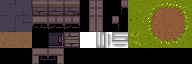
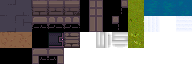
water surf and PRNG cache

diff --git a/src/main/kotlin/world/Level.kt b/src/main/kotlin/world/Level.kt
@@ -7,6 +7,7 @@ import kotlinx.serialization.Transient
 import render.GameScreen
 import render.sunLights
 import render.tileholders.OverlapTile
+import render.tileholders.WaterTile
 import render.tilesets.Glyph
 import render.tilesets.TileSet
 import things.LightSource
@@ -14,6 +15,7 @@ import things.Thing
 import ui.modals.ContextMenu
 import util.*
 import world.terrains.Terrain
+import kotlin.random.Random
 
 @Serializable
 sealed class Level {
@@ -52,7 +54,8 @@ sealed class Level {
         tileSet: TileSet,
         doTile: (x: Int, y: Int, vis: Float, glyph: Glyph, light: LightColor) -> Unit,
         doOverlap: (x: Int, y: Int, vis: Float, glyph: Glyph, edge: XY, light: LightColor) -> Unit,
-        doOcclude: (x: Int, y: Int, edge: XY) -> Unit
+        doOcclude: (x: Int, y: Int, edge: XY) -> Unit,
+        doSurf: (x: Int, y: Int, vis: Float, light: LightColor, edge: XY) -> Unit
     ) {
         for (x in pov.x - GameScreen.RENDER_WIDTH /2 until pov.x + GameScreen.RENDER_WIDTH /2) {
             for (y in pov.y - GameScreen.RENDER_HEIGHT /2 until pov.y + GameScreen.RENDER_HEIGHT /2) {
@@ -63,6 +66,7 @@ sealed class Level {
                     doTile(
                         x, y, vis, glyph, lightAt(x, y)
                     )
+                    // Ground overlaps
                     if (tileSet.tileHolders[glyph] is OverlapTile) {
                         CARDINALS.forEach { edge ->
                             if ((tileSet.tileHolders[glyph] as OverlapTile).overlapsIn(this, x, y, edge)) {
@@ -72,7 +76,18 @@ sealed class Level {
                             }
                         }
                     }
-                    if (vis == 1f && terrain.isWalkable()) {
+                    // Water surf
+                    if (tileSet.tileHolders[glyph] is WaterTile) {
+                        listOf(NORTH, WEST, EAST).forEach { edge ->
+                            if (tileSet.tileHolders[Terrain.get(getTerrain(x + edge.x, y + edge.y)).glyph()] !is WaterTile) {
+                                doSurf(
+                                    x, y, vis, lightAt(x, y), edge
+                                )
+                            }
+                        }
+                    }
+                    // Occlusion shadows
+                    if (vis == 1f && !terrain.isOpaque()) {
                         var okNE = true
                         var okSE = true
                         var okNW = true
@@ -177,6 +192,8 @@ sealed class Level {
     fun setTerrain(x: Int, y: Int, type: Terrain.Type) = chunkAt(x,y)?.setTerrain(x,y,type) ?: Unit
 
     fun setTerrainData(x: Int, y: Int, data: String) = chunkAt(x,y)?.setTerrainData(x,y,data)
+
+    fun getRandom(x: Int, y: Int): Int = chunkAt(x,y)?.getRandom(x,y) ?: 4 // chosen by fair dice roll
 
     fun getGlyph(x: Int, y: Int): Glyph = chunkAt(x,y)?.getGlyph(x,y) ?: Glyph.BLANK
 

diff --git a/src/main/kotlin/render/QuadBatch.kt b/src/main/kotlin/render/QuadBatch.kt
@@ -130,7 +130,7 @@ class QuadBatch(
     }
 
     fun addOccludeQuad(col: Int, row: Int, stride: Double, edge: XY,
-                        textureIndex: Int, aspectRatio: Double) {
+                        textureIndex: Int, visibility: Float, light: LightColor, aspectRatio: Double) {
         var ix0 = (col.toDouble() * stride - (stride * 0.5)) / aspectRatio
         var iy0 = row.toDouble() * stride - (stride * 0.5)
         var ix1 = ix0 + stride / aspectRatio
@@ -204,13 +204,18 @@ class QuadBatch(
         tx1 = (((textureIndex % tileSet.tilesPerRow).toFloat() + tx1) * tileSet.tileRowStride).toFloat() - (tileSet.tilesPerRow * tilePad)
         ty1 = (((textureIndex / tileSet.tilesPerRow).toFloat() + ty1) * tileSet.tileColumnStride).toFloat() - (tileSet.tilesPerRow * tilePad)
 
+        val lightR = min(visibility, light.r)
+        val lightG = min(visibility, light.g)
+        val lightB = min(visibility, light.b)
+        val grayOut = if (visibility < 1f) 1f else 0f
+
         floats.apply {
-            addVertex(x0, y0, tx0, ty0, 1f, 1f, 1f, 0f)
-            addVertex(x0, y1, tx0, ty1, 1f, 1f, 1f, 0f)
-            addVertex(x1, y0, tx1, ty0, 1f, 1f, 1f, 0f)
-            addVertex(x1, y0, tx1, ty0, 1f, 1f, 1f, 0f)
-            addVertex(x0, y1, tx0, ty1, 1f, 1f, 1f, 0f)
-            addVertex(x1, y1, tx1, ty1, 1f, 1f, 1f, 0f)
+            addVertex(x0, y0, tx0, ty0, lightR, lightG, lightB, grayOut)
+            addVertex(x0, y1, tx0, ty1, lightR, lightG, lightB, grayOut)
+            addVertex(x1, y0, tx1, ty0, lightR, lightG, lightB, grayOut)
+            addVertex(x1, y0, tx1, ty0, lightR, lightG, lightB, grayOut)
+            addVertex(x0, y1, tx0, ty1, lightR, lightG, lightB, grayOut)
+            addVertex(x1, y1, tx1, ty1, lightR, lightG, lightB, grayOut)
         }
     }
 

diff --git a/src/main/kotlin/world/Chunk.kt b/src/main/kotlin/world/Chunk.kt
@@ -11,6 +11,7 @@ import world.cartos.RoomyMaze
 import world.cartos.WorldCarto
 import world.terrains.Terrain
 import java.lang.Float.min
+import kotlin.random.Random
 
 
 @Serializable
@@ -51,6 +52,8 @@ class Chunk(
     private val walkableCache = Array(width) { Array<Boolean?>(height) { null } }
     @Transient
     private val opaqueCache = Array(width) { Array<Boolean?>(height) { null } }
+    @Transient
+    private val randomCache = Array(width) { Array<Int?>(height) { null } }
 
     @Transient private val noThing = ArrayList<Thing>()
 
@@ -157,6 +160,16 @@ class Chunk(
 
     fun setTerrainData(x: Int, y: Int, data: String) {
         terrainData[x - this.x][y - this.y] = data
+    }
+
+    fun getRandom(x: Int, y: Int): Int {
+        return if (boundsCheck(x, y)) {
+            randomCache[x - this.x][y - this.y] ?: run {
+                val newRandom = Random.nextInt(100000)
+                randomCache[x - this.x][y - this.y] = newRandom
+                newRandom
+            }
+        } else 4 // chosen by fair dice roll
     }
 
     fun getGlyph(x: Int, y: Int) = if (boundsCheck(x, y)) {

diff --git a/src/main/kotlin/render/tilesets/TerrainTileSet.kt b/src/main/kotlin/render/tilesets/TerrainTileSet.kt
@@ -1,9 +1,6 @@
 package render.tilesets
 
-import render.tileholders.OverlapTile
-import render.tileholders.SimpleTile
-import render.tileholders.VariantsTile
-import render.tileholders.WallTile
+import render.tileholders.*
 
 fun TerrainTileSet() =
     TileSet("tiles_terrain.png", 12, 4).apply {
@@ -12,6 +9,8 @@ fun TerrainTileSet() =
 
         setTile(Glyph.OCCLUSION_SHADOWS_V, SimpleTile(this, 6, 2))
         setTile(Glyph.OCCLUSION_SHADOWS_H, SimpleTile(this, 7, 2))
+        setTile(Glyph.SURF_V, SimpleTile(this, 9, 1))
+        setTile(Glyph.SURF_H, SimpleTile(this, 11, 1))
 
         setTile(Glyph.STONE_FLOOR, VariantsTile(this).apply {
             add(0.3f, 0, 0)
@@ -48,6 +47,12 @@ fun TerrainTileSet() =
             add(WallTile.Slot.RIGHTBOTTOM, 1f, 7, 1)
             add(WallTile.Slot.OUTSIDE_RIGHTBOTTOM, 1f, 2, 3)
             add(WallTile.Slot.FULL, 1f, 4, 2)
+        })
+
+        setTile(Glyph.WATER, WaterTile(this).apply {
+            add(0.3f, 9, 0)
+            add(0.4f, 11, 0)
+            add(0.3f, 10, 0)
         })
 
         setTile(Glyph.PORTAL_DOOR, SimpleTile(this, 3, 2))

diff --git a/src/main/kotlin/render/GameScreen.kt b/src/main/kotlin/render/GameScreen.kt
@@ -124,7 +124,17 @@ object GameScreen : KtxScreen {
         )
         overlapBatch.addOccludeQuad(
             tx - pov.x, ty - pov.y, tileStride, edge,
-            textureIndex, aspectRatio
+            textureIndex, 1f, fullLight, aspectRatio
+        )
+    }
+
+    private val renderSurf: (Int, Int, Float, LightColor, XY)->Unit = { tx, ty, vis, light, edge ->
+        val textureIndex = terrainBatch.getTextureIndex(
+            if (edge == NORTH || edge == SOUTH) Glyph.SURF_H else Glyph.SURF_V
+        )
+        overlapBatch.addOccludeQuad(
+            tx - pov.x, ty - pov.y, tileStride, edge,
+            textureIndex, vis, light, aspectRatio
         )
     }
 
@@ -337,7 +347,8 @@ object GameScreen : KtxScreen {
             App.level.forEachCellToRender(tileSet,
                 doTile = renderTile,
                 doOverlap = renderOverlap,
-                doOcclude = renderOcclude
+                doOcclude = renderOcclude,
+                doSurf = renderSurf
             )
             draw()
         }

diff --git a/src/main/kotlin/render/tileholders/WaterTile.kt b/src/main/kotlin/render/tileholders/WaterTile.kt
@@ -1,0 +1,28 @@
+package render.tileholders
+
+import render.tilesets.TileSet
+import util.Dice
+import world.Level
+import kotlin.random.Random
+
+class WaterTile(
+    set: TileSet
+): TileHolder(set)  {
+
+    private val variants = ArrayList<Triple<Float, Int, Int>>()
+
+    fun add(frequency: Float, tx: Int, ty: Int) {
+        variants.add(Triple(frequency, tx, ty))
+    }
+
+    override fun getTextureIndex(level: Level?, x: Int, y: Int): Int {
+        val seed = x * 10 + y + (System.currentTimeMillis() / (400 + Random(x*10+y).nextInt(200))).toInt()
+        val dice = Random(seed).nextFloat()
+        var chance = 0f
+        variants.forEach { v ->
+            chance += v.first
+            if (dice <= chance) return v.third * set.tilesPerRow + v.second
+        }
+        return 0
+    }
+}

diff --git a/src/main/kotlin/world/terrains/Terrain.kt b/src/main/kotlin/world/terrains/Terrain.kt
@@ -23,6 +23,7 @@ sealed class Terrain(
             Type.TERRAIN_STONEFLOOR -> StoneFloor
             Type.TERRAIN_DIRT -> Dirt
             Type.TERRAIN_GRASS -> Grass
+            Type.TERRAIN_WATER -> Water
             Type.TERRAIN_PORTAL_DOOR -> PortalDoor
         }
         fun getTiled(type: Int): Terrain.Type? = when (type) {
@@ -41,6 +42,7 @@ sealed class Terrain(
         TERRAIN_STONEFLOOR,
         TERRAIN_DIRT,
         TERRAIN_GRASS,
+        TERRAIN_WATER,
         TERRAIN_PORTAL_DOOR,
     }
 
@@ -109,4 +111,13 @@ object PortalDoor : Terrain(
             }
         })
     }
+}
+
+object Water : Terrain(
+    Glyph.WATER,
+    false,
+    true,
+    false
+) {
+
 }

diff --git a/src/main/kotlin/render/tileholders/TileHolder.kt b/src/main/kotlin/render/tileholders/TileHolder.kt
@@ -7,15 +7,14 @@ import render.tilesets.TileSet
 abstract class TileHolder(
     val set: TileSet
 ) {
-
     abstract fun getTextureIndex(
         level: Level? = null,
         x: Int = 0,
         y: Int = 0
     ): Int
 
-    protected fun pickIndexFromVariants(bucket: ArrayList<Triple<Float, Int, Int>>, seed: Int): Int {
-        val dice = Random(seed).nextFloat()
+    protected fun pickIndexFromVariants(random: Int, bucket: ArrayList<Triple<Float, Int, Int>>): Int {
+        val dice = (random % 1000).toFloat() / 1000f
         var chance = 0f
         bucket.forEach { v ->
             chance += v.first

diff --git a/src/main/kotlin/render/tileholders/VariantsTile.kt b/src/main/kotlin/render/tileholders/VariantsTile.kt
@@ -2,6 +2,7 @@ package render.tileholders
 
 import world.Level
 import render.tilesets.TileSet
+import kotlin.random.Random
 
 open class VariantsTile(
     set: TileSet
@@ -14,7 +15,10 @@ open class VariantsTile(
     }
 
     override fun getTextureIndex(level: Level?, x: Int, y: Int): Int {
-        return pickIndexFromVariants(variants, x * 10 + y)
+        level?.also { level ->
+            return pickIndexFromVariants(level.getRandom(x,y), variants)
+        }
+        return 0
     }
 
 }

diff --git a/src/main/kotlin/render/tileholders/WallTile.kt b/src/main/kotlin/render/tileholders/WallTile.kt
@@ -69,7 +69,7 @@ class WallTile(
                     bucket = variants[Slot.TOP]
                 }
             }
-            return pickIndexFromVariants(bucket!!, x * 10 + y)
+            return pickIndexFromVariants(level.getRandom(x,y), bucket!!)
         }
         return 0
     }

diff --git a/src/main/kotlin/render/tilesets/Glyph.kt b/src/main/kotlin/render/tilesets/Glyph.kt
@@ -10,6 +10,7 @@ enum class Glyph {
     STONE_FLOOR,
     DIRT,
     GRASS,
+    WATER,
     PORTAL_DOOR,
 
     CURSOR,
@@ -20,6 +21,8 @@ enum class Glyph {
     LOGO_OOKLA,
     OCCLUSION_SHADOWS_V,
     OCCLUSION_SHADOWS_H,
+    SURF_V,
+    SURF_H,
     PANEL_SHADOW,
 
     PLAYER,
